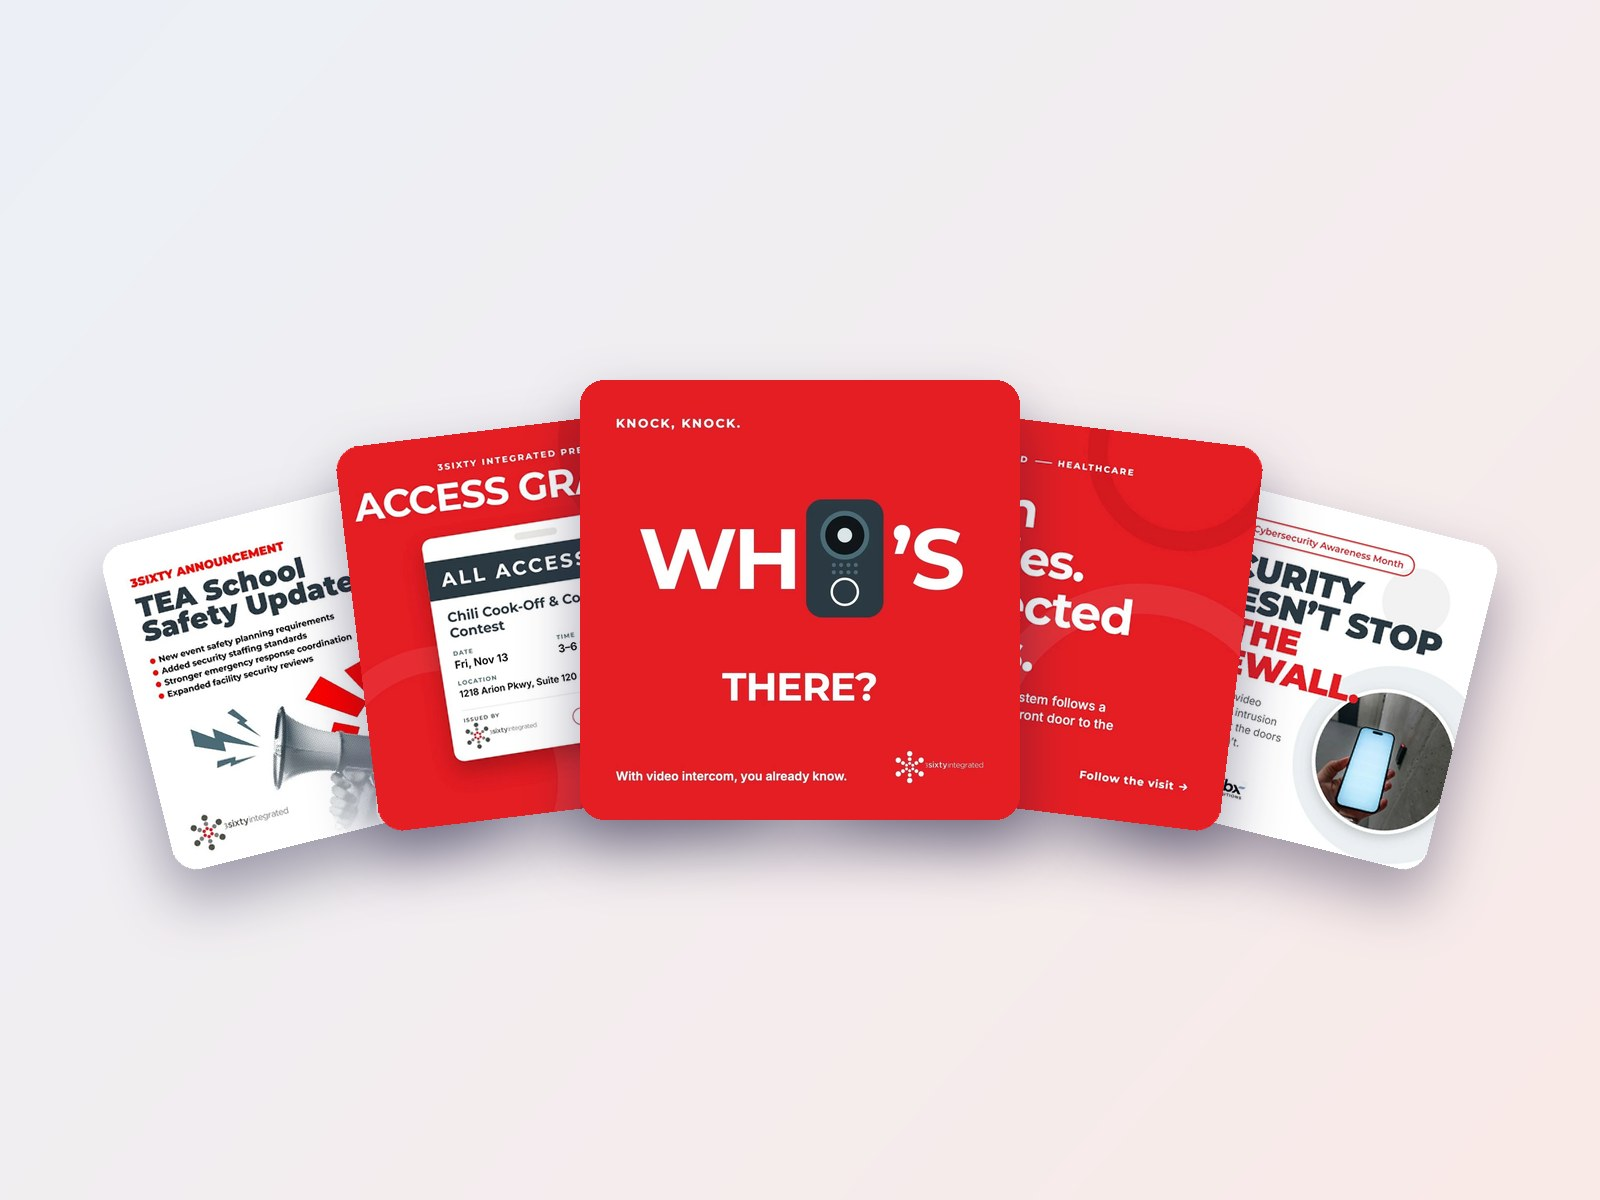
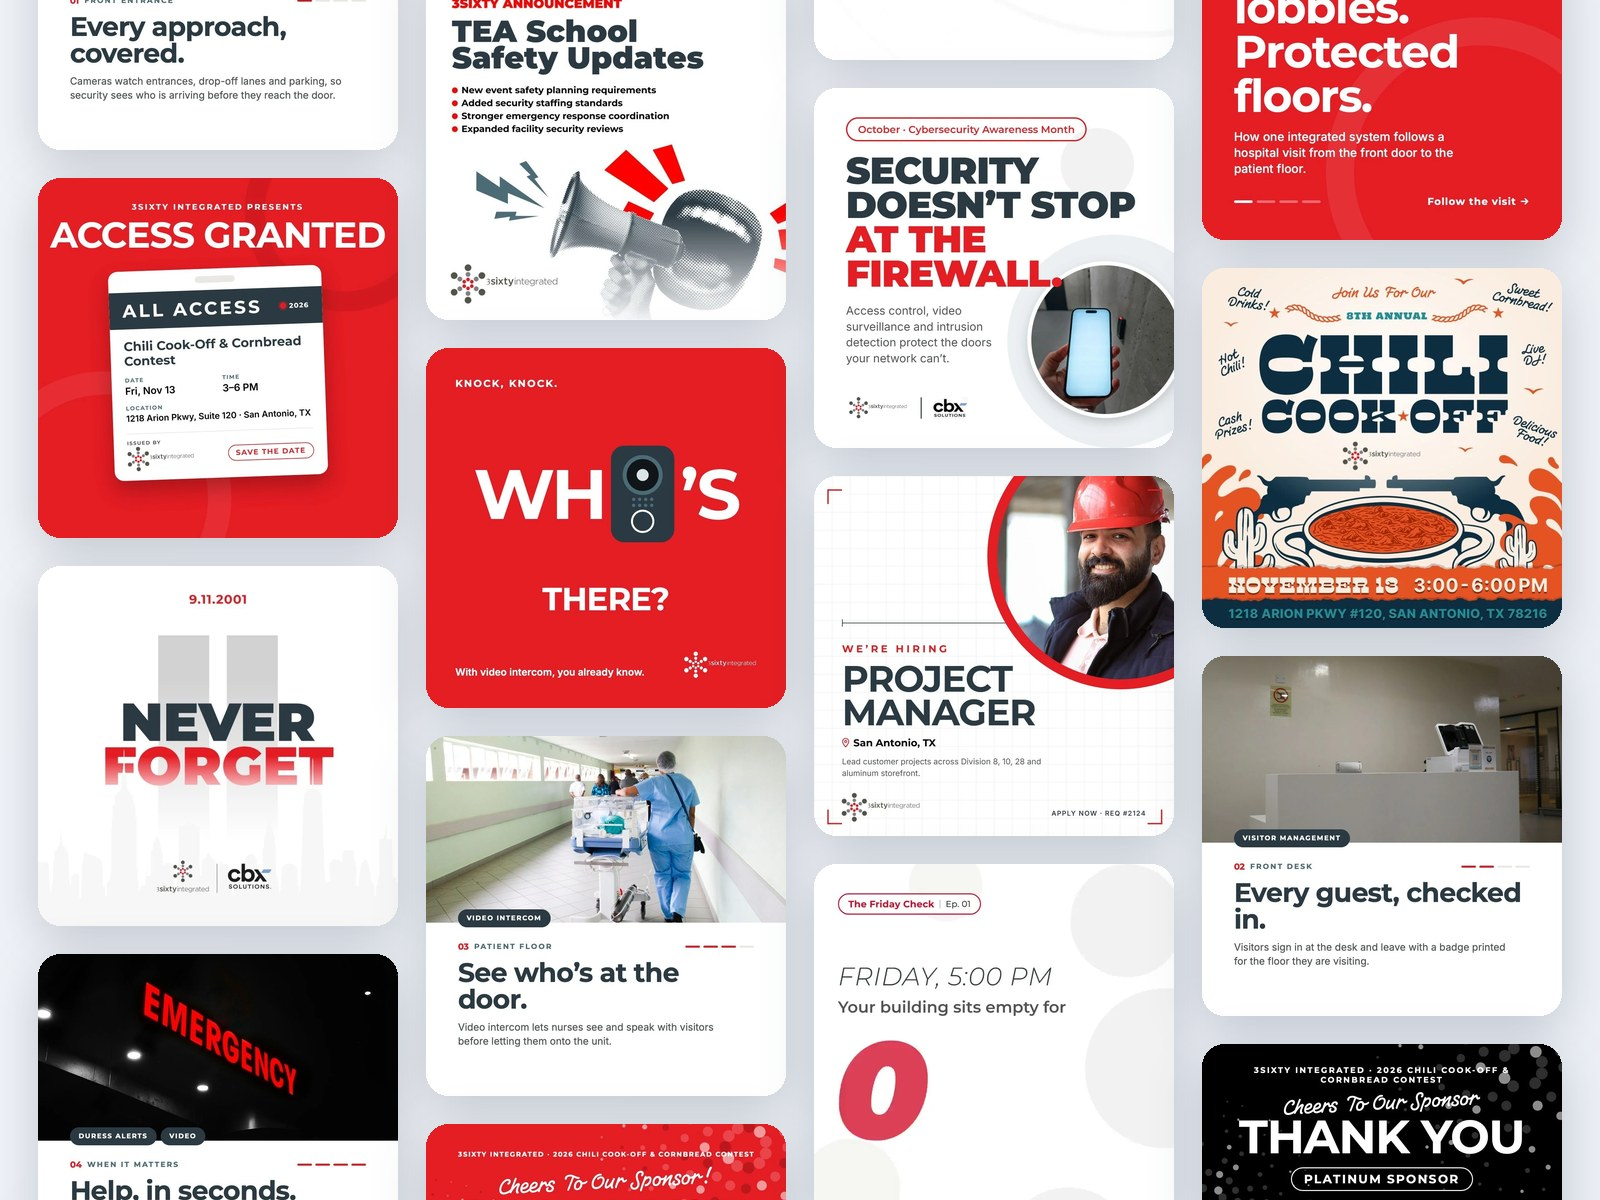
3Sixty cover: staggered wall of LinkedIn posts instead of a fan
Claude-Session: https://claude.ai/code/session_01UbEANsGwJXYPx8dQMVt2ek

diff --git a/src/data/projects.js b/src/data/projects.js
@@ -11,7 +11,7 @@ export const projects = [
     tools: ["Figma", "Photoshop", "Mailchimp", "HubSpot", "LinkedIn"],
     cover: "/images/3sixty-cover.jpg",
     heroImage: "/images/3sixty-cover.jpg",
-    heroAlt: "Five 3Sixty Integrated LinkedIn posts fanned in an arc, led by the red Who's There? video intercom post",
+    heroAlt: "A wall of 3Sixty Integrated LinkedIn posts in staggered columns: Who's There?, Access Granted, the Chili Cook-Off, hiring and security education posts",
     socialPostGroups: [
       {
         title: "Security education",
